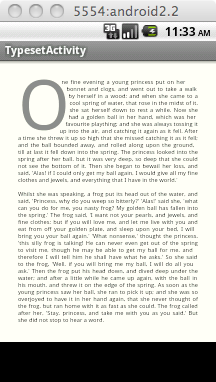
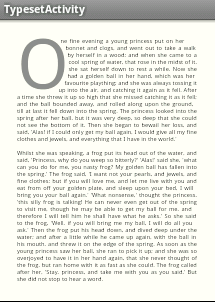
Further fixes to documentation, crop some screenshots to remove unneeded chrome.

diff --git a/README.md b/README.md
@@ -3,21 +3,17 @@
 TypesetView is an Android Library. It gives you a [View](https://developer.android.com/reference/android/view/View.html) that's great for displaying long blocks of rag-right static body text. It adds typographic niceties from more sophisticated text layout engines, allowing refined control over your content.
 
 #### Multicolumn text
-![Portrait column example](docs/columns_portrait.jpg)![Landscape column example](docs/columns_landscape.jpg)
+![Landscape column example](docs/columns_landscape.jpg)
 
 You can either directly set the number of columns, or just specify a minimum column width. If you set a minimum column width, TypesetView will automatically add columns based on the available width.
 
 #### Flexible margins
-![Flowing text around glyph](docs/flow_margin_sample1.png)
-
-You can programatically control the margins for each line in the View. For instance, you can flow text around arbitrary glyphs, as in this example shows.
+![Flowing text around glyph](docs/flow_margin_sample2.png) You can programatically control the margins for each line in the View. You can even write code to flow text around arbitrary glyphs, as in this example shows.
 
 #### Advanced linebreaks
 Unlike TextView, TypesetView looks ahead and breaks lines when possible to minimize long gaps in a paragraph of rag-right text. Here is a side-by-side comparison of TextView on the left, and TypesetView on the right.
 
-![Line breaking comparison](docs/line_sample.png)
-
-TypesetView has moved the word "of" from the first line down to the second line, which leaves a slightly bigger gap for the first line. However, this lets it avoid a much larger gap in the third line. Software typophiles - it minimizes the sum of the squares of the end-of-line gaps in text that's set rag-right. It uses a variation of the Knuth-Plass algorithm (used in TeX.) It doesn't hyphenate words, and the "badness" of a line is simply the square of the right-side gap. The last line is ignored in the calculations.
+![Line breaking comparison](docs/linebreak_sample.png) TypesetView has moved the word "of" from the first line down to the second line, which leaves a slightly bigger gap for the first line. However, this lets it avoid a much larger gap in the third line. Software typophiles - it minimizes the sum of the squares of the end-of-line gaps in text that's set rag-right. It uses a variation of the Knuth-Plass algorithm (used in TeX.) It doesn't hyphenate words, and the "badness" of a line is simply the square of the right-side gap. The last line is ignored in the calculations.
 
 #### Lastly...
 
